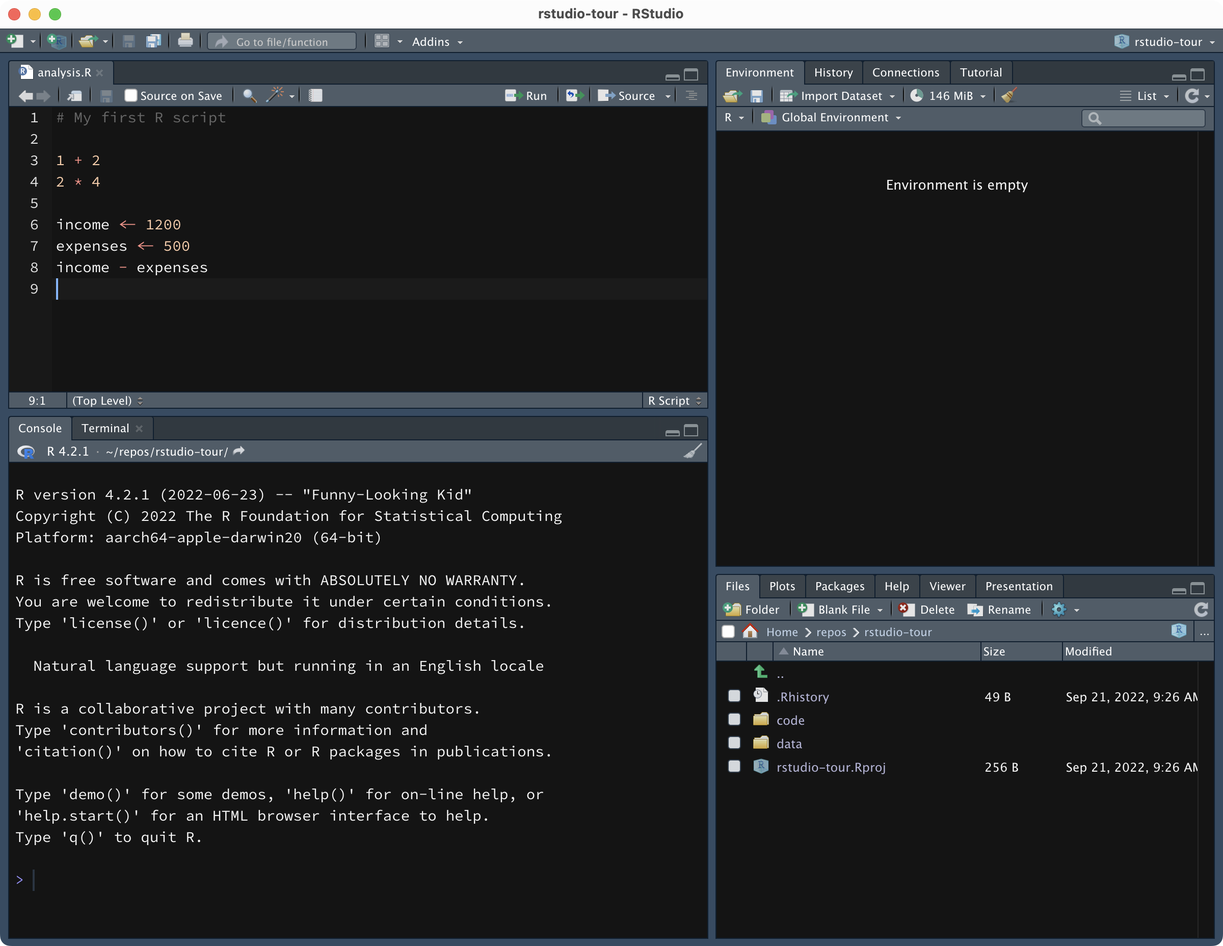
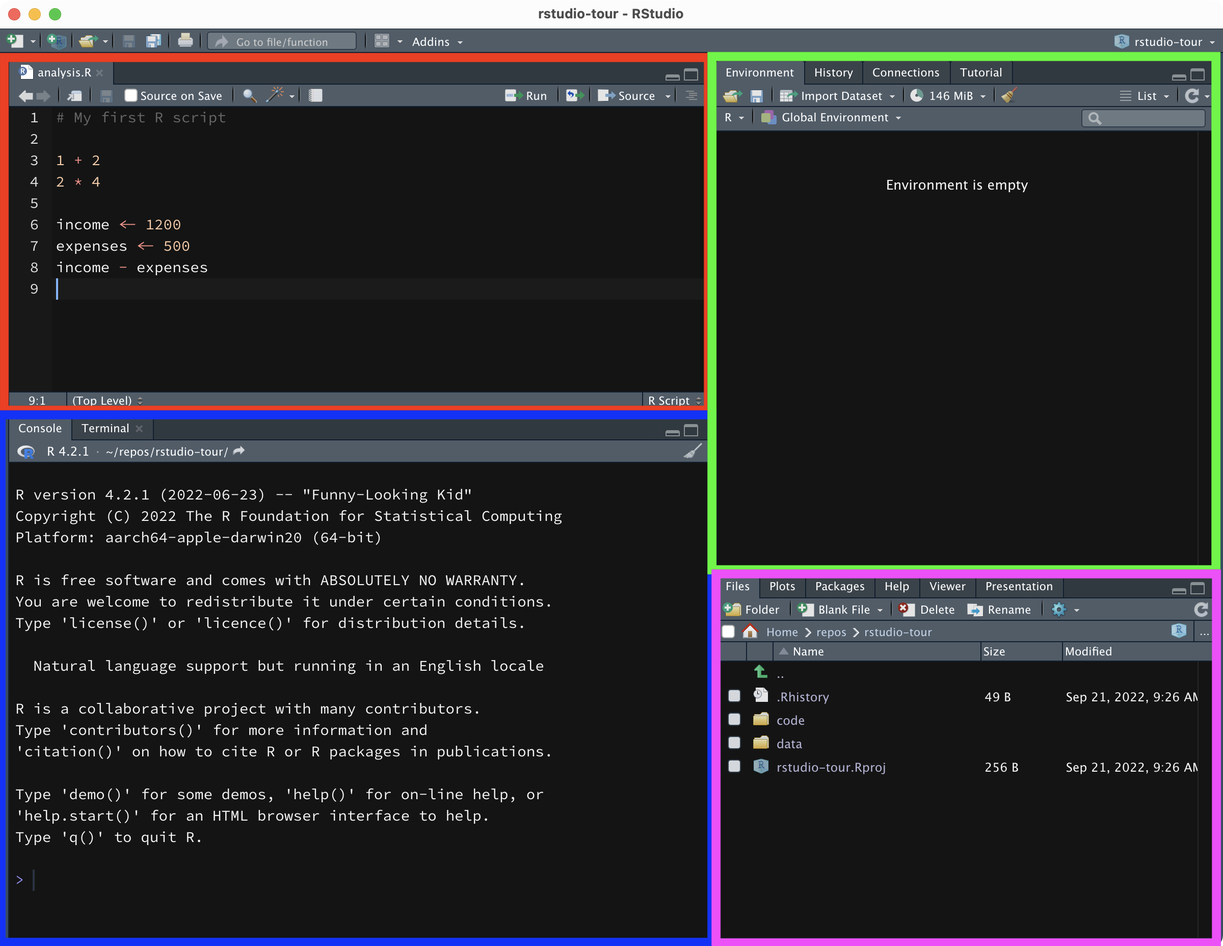
♻ - update w1 tutorial

Changed region(s): [[0.0, 0.0312, 1.0, 1.0]]

diff --git a/docs/tutorials/tutorial-w01.html b/docs/tutorials/tutorial-w01.html
@@ -171,13 +171,17 @@ code span.wa { color: #60a0b0; font-weight: bold; font-style: italic; } /* Warni
   <ul>
   <li><a href="#why-r" id="toc-why-r" class="nav-link active" data-scroll-target="#why-r">Why R?</a></li>
   <li><a href="#r-vs-rstudio" id="toc-r-vs-rstudio" class="nav-link" data-scroll-target="#r-vs-rstudio">R vs RStudio</a></li>
-  <li><a href="#rstudio-1" id="toc-rstudio-1" class="nav-link" data-scroll-target="#rstudio-1">RStudio</a></li>
+  <li><a href="#rstudio-1" id="toc-rstudio-1" class="nav-link" data-scroll-target="#rstudio-1">RStudio</a>
+  <ul class="collapse">
+  <li><a href="#rstudio-projects" id="toc-rstudio-projects" class="nav-link" data-scroll-target="#rstudio-projects">RStudio projects</a></li>
+  <li><a href="#a-few-important-settings" id="toc-a-few-important-settings" class="nav-link" data-scroll-target="#a-few-important-settings">A few important settings</a></li>
+  </ul></li>
   <li><a href="#r-basics" id="toc-r-basics" class="nav-link" data-scroll-target="#r-basics">R basics</a>
   <ul class="collapse">
   <li><a href="#r-as-a-calculator" id="toc-r-as-a-calculator" class="nav-link" data-scroll-target="#r-as-a-calculator">R as a calculator</a></li>
   <li><a href="#variables" id="toc-variables" class="nav-link" data-scroll-target="#variables">Variables</a></li>
   <li><a href="#functions" id="toc-functions" class="nav-link" data-scroll-target="#functions">Functions</a></li>
-  <li><a href="#strings-and-logicals" id="toc-strings-and-logicals" class="nav-link" data-scroll-target="#strings-and-logicals">Strings and logicals</a></li>
+  <li><a href="#string-and-logical-vectors" id="toc-string-and-logical-vectors" class="nav-link" data-scroll-target="#string-and-logical-vectors">String and logical vectors</a></li>
   </ul></li>
   </ul>
 </nav>
@@ -256,58 +260,98 @@ RStudio
 </section>
 <section id="rstudio-1" class="level2">
 <h2 class="anchored" data-anchor-id="rstudio-1">RStudio</h2>
+<p>When you open RStudio, you can see the window is divided into 4 panels:</p>
+<ul>
+<li><p>Red (top-left): the file <strong>Editor</strong>.</p></li>
+<li><p>Blue (bottom-left): the <strong>Console</strong>.</p></li>
+<li><p>Green (top-right): the <strong>Environment tab</strong>.</p></li>
+<li><p>Purple (bottom-right): the <strong>Files tab</strong>.</p></li>
+</ul>
 <p><img src="../img/rstudio-1.png" class="img-fluid"></p>
-<p><img src="../img/rstudio-2.png" class="img-fluid"></p>
+<p>The file <strong>Editor</strong> is where you can edit files, like you would in any text editor.</p>
+<p>The <strong>Console</strong> is where R commands can be executed. Think of this as the interface to R.</p>
+<p>The <strong>Environment tab</strong> lists the objects created with R, while in the <strong>Files tab</strong> you can navigate folders on your computer to get to files and open them in the file Editor.</p>
+<section id="rstudio-projects" class="level3">
+<h3 class="anchored" data-anchor-id="rstudio-projects">RStudio projects</h3>
+<p>RStudio is an IDE (see above) which allows you to work efficiently with R, all in one place.</p>
+<p><strong>Note</strong> that files and data live in folders on your computer, outside of RStudio: do not think of RStudio as an app where you can save files in.</p>
+<p>All the files that you see in the Files tab are files on your computer and you can access them from the Finder or File Explorer as you would with any other file.</p>
+<p>In principle, you can open RStudio and then navigate to any folder or file on your computer.</p>
+<p>However, there is a more efficient way of working with RStudio: <strong>RStudio Projects</strong>.</p>
+<div class="callout-tip callout callout-style-default no-icon callout-captioned">
+<div class="callout-header d-flex align-content-center">
+<div class="callout-icon-container">
+<i class="callout-icon no-icon"></i>
+</div>
+<div class="callout-caption-container flex-fill">
+RStudio Projects
+</div>
+</div>
+<div class="callout-body-container callout-body">
+<p>An <strong>RStudio Project</strong> is a folder on your computer that has an <code>.Rproj</code> file.</p>
+</div>
+</div>
+<p>You can create as many RStudio Projects as you wish, and I recommend to create one per project (your dissertation, a research project, etc…).</p>
+<p>We will create an RStudio Project for this course. You will be using this Project throughout the semester.</p>
+<p>To create an RStudio Project, click on the button that looks like a transparent light blue box with a plus, in the top-left corner of RStudio. A window like the one below will pop up.</p>
 <p><img src="../img/rstudio-3.png" class="img-fluid"></p>
+<p>Click on <code>New Directory</code> then <code>New Project</code>.</p>
 <p><img src="../img/rstudio-4.png" class="img-fluid"></p>
+<p>Now, this will create a new folder (aka directory) on your computer and will make that an RStudio Project.</p>
+<p>Give a name to your new project, something like the name of the course and year.</p>
+<p>Then you need to specify where to create this new folder/Project. Click on <code>Browse…</code> and navigate to the folder you want to create the new folder/Project in.</p>
+<p>When done, click on <code>Create Project</code>. RStudio will automatically open your new project.</p>
 <p><img src="../img/rstudio-5.png" class="img-fluid"></p>
+<p>You know you are in an RStudio Project because you can see the name of the Project in the top-right corner of RStudio.</p>
+<div class="callout-note callout callout-style-default no-icon callout-captioned">
+<div class="callout-header d-flex align-content-center">
+<div class="callout-icon-container">
+<i class="callout-icon no-icon"></i>
+</div>
+<div class="callout-caption-container flex-fill">
+Note
+</div>
+</div>
+<div class="callout-body-container callout-body">
+<p>When working through these tutorials, always make sure you are in the course RStudio Project you just created.</p>
+</div>
+</div>
+<p>If your see <code>Project (none)</code> in the top-right corner, that means your <strong>are not</strong> in an RStudio Project.</p>
+<p>There are several ways of opening an RStudio Project:</p>
+<ul>
+<li><p>You can go to the RStudio Project folder in Finder or File Explorer and double click on the <code>Rproj</code> file.</p></li>
+<li><p>You can click on <code>File &gt; Open Project</code> in the RStudio menu.</p></li>
+<li><p>You can click on the project name in the top-right corner of RStudio, which will bring up a list of projects. Click on the desired project to open it.</p></li>
+</ul>
+</section>
+<section id="a-few-important-settings" class="level3">
+<h3 class="anchored" data-anchor-id="a-few-important-settings">A few important settings</h3>
+<p>Before moving on, there are a few important settings that you need to change.</p>
 <p><img src="../img/rstudio-6.png" class="img-fluid"></p>
 <ol type="1">
-<li><p>Open the RStudio preferences (macOS: <code>RStudio &gt; Preferences...</code>, win: <code>Tools &gt; Global options...</code>).</p></li>
+<li><p>Open the RStudio preferences (macOS: <code>RStudio &gt; Preferences...</code>, Windows: <code>Tools &gt; Global options...</code>).</p></li>
 <li><p>Un-tick <code>Restore .RData into workspace at startup</code>.</p></li>
 <li><p>Select <code>Never</code> in <code>Save workspace to .RData on exit</code>.</p></li>
 </ol>
+</section>
 </section>
 <section id="r-basics" class="level2">
 <h2 class="anchored" data-anchor-id="r-basics">R basics</h2>
 <section id="r-as-a-calculator" class="level3">
 <h3 class="anchored" data-anchor-id="r-as-a-calculator">R as a calculator</h3>
 <p>Write the following in the <code>Console</code>, then press <code>ENTER</code>: <code>1 + 2</code>.</p>
-<p>Fantastic! You should see that the answer to the addition has been printed in the <code>Console</code>.</p>
-<p>Now, try running the same code again, but this time in the <strong>code chunk</strong> below. There are several ways you can run code in a code chunk: one is to click on the green triangle sign in the top right corner of the code chunk.</p>
-<p>Alternatively, you can also simply place the text cursor inside the code chunk in the line you want to run and hit <code>CTRL/CMD + ENTER</code> on your keyboard to run that line of code.</p>
-<div class="cell">
-<div class="sourceCode cell-code" id="cb1"><pre class="sourceCode r code-with-copy"><code class="sourceCode r"><span id="cb1-1"><a href="#cb1-1" aria-hidden="true" tabindex="-1"></a><span class="dv">1</span> <span class="sc">+</span> <span class="dv">2</span></span></code><button title="Copy to Clipboard" class="code-copy-button"><i class="bi"></i></button></pre></div>
-<div class="cell-output cell-output-stdout">
+<p>Fantastic! You should see that the answer to the addition has been printed in the <code>Console</code>, like this:</p>
 <pre><code>[1] 3</code></pre>
-</div>
-</div>
-<p>You did it!</p>
-<p>Now, try some more operations. Feel free to add your own to the mix!</p>
+<p>Now, try some more operations (write each of the following in the Console and press <code>ENTER</code>). Feel free to add your own to the mix!</p>
 <div class="cell">
-<div class="sourceCode cell-code" id="cb3"><pre class="sourceCode r code-with-copy"><code class="sourceCode r"><span id="cb3-1"><a href="#cb3-1" aria-hidden="true" tabindex="-1"></a><span class="dv">67</span> <span class="sc">-</span> <span class="dv">13</span></span></code><button title="Copy to Clipboard" class="code-copy-button"><i class="bi"></i></button></pre></div>
-<div class="cell-output cell-output-stdout">
-<pre><code>[1] 54</code></pre>
-</div>
-<div class="sourceCode cell-code" id="cb5"><pre class="sourceCode r code-with-copy"><code class="sourceCode r"><span id="cb5-1"><a href="#cb5-1" aria-hidden="true" tabindex="-1"></a><span class="dv">2</span> <span class="sc">*</span> <span class="dv">4</span></span></code><button title="Copy to Clipboard" class="code-copy-button"><i class="bi"></i></button></pre></div>
-<div class="cell-output cell-output-stdout">
-<pre><code>[1] 8</code></pre>
-</div>
-<div class="sourceCode cell-code" id="cb7"><pre class="sourceCode r code-with-copy"><code class="sourceCode r"><span id="cb7-1"><a href="#cb7-1" aria-hidden="true" tabindex="-1"></a><span class="dv">268</span> <span class="sc">/</span> <span class="dv">43</span></span></code><button title="Copy to Clipboard" class="code-copy-button"><i class="bi"></i></button></pre></div>
-<div class="cell-output cell-output-stdout">
-<pre><code>[1] 6.232558</code></pre>
-</div>
+<div class="sourceCode cell-code" id="cb2"><pre class="sourceCode r code-with-copy"><code class="sourceCode r"><span id="cb2-1"><a href="#cb2-1" aria-hidden="true" tabindex="-1"></a><span class="dv">67</span> <span class="sc">-</span> <span class="dv">13</span></span>
+<span id="cb2-2"><a href="#cb2-2" aria-hidden="true" tabindex="-1"></a><span class="dv">2</span> <span class="sc">*</span> <span class="dv">4</span></span>
+<span id="cb2-3"><a href="#cb2-3" aria-hidden="true" tabindex="-1"></a><span class="dv">268</span> <span class="sc">/</span> <span class="dv">43</span></span></code><button title="Copy to Clipboard" class="code-copy-button"><i class="bi"></i></button></pre></div>
 </div>
 <p>You can also chain multiple operations.</p>
 <div class="cell">
-<div class="sourceCode cell-code" id="cb9"><pre class="sourceCode r code-with-copy"><code class="sourceCode r"><span id="cb9-1"><a href="#cb9-1" aria-hidden="true" tabindex="-1"></a><span class="dv">6</span> <span class="sc">+</span> <span class="dv">4</span> <span class="sc">-</span> <span class="dv">1</span> <span class="sc">+</span> <span class="dv">2</span></span></code><button title="Copy to Clipboard" class="code-copy-button"><i class="bi"></i></button></pre></div>
-<div class="cell-output cell-output-stdout">
-<pre><code>[1] 11</code></pre>
-</div>
-<div class="sourceCode cell-code" id="cb11"><pre class="sourceCode r code-with-copy"><code class="sourceCode r"><span id="cb11-1"><a href="#cb11-1" aria-hidden="true" tabindex="-1"></a><span class="dv">4</span> <span class="sc">*</span> <span class="dv">2</span> <span class="sc">+</span> <span class="dv">3</span> <span class="sc">*</span> <span class="dv">2</span></span></code><button title="Copy to Clipboard" class="code-copy-button"><i class="bi"></i></button></pre></div>
-<div class="cell-output cell-output-stdout">
-<pre><code>[1] 14</code></pre>
-</div>
+<div class="sourceCode cell-code" id="cb3"><pre class="sourceCode r code-with-copy"><code class="sourceCode r"><span id="cb3-1"><a href="#cb3-1" aria-hidden="true" tabindex="-1"></a><span class="dv">6</span> <span class="sc">+</span> <span class="dv">4</span> <span class="sc">-</span> <span class="dv">1</span> <span class="sc">+</span> <span class="dv">2</span></span>
+<span id="cb3-2"><a href="#cb3-2" aria-hidden="true" tabindex="-1"></a><span class="dv">4</span> <span class="sc">*</span> <span class="dv">2</span> <span class="sc">+</span> <span class="dv">3</span> <span class="sc">*</span> <span class="dv">2</span></span></code><button title="Copy to Clipboard" class="code-copy-button"><i class="bi"></i></button></pre></div>
 </div>
 </section>
 <section id="variables" class="level3">
@@ -316,28 +360,38 @@ RStudio
 <p>Forget-me-not.</p>
 </blockquote>
 <p>Most times, we want to store a certain value so that we can use it again later.</p>
-<p>We can achieve this by creating <strong>variables</strong>. A variable holds one or more values and it’s stored in the computer memory for later use.</p>
-<p>You can create a variable by using the assignment operator <code>&lt;-</code>.</p>
-<div class="cell">
-<div class="sourceCode cell-code" id="cb13"><pre class="sourceCode r code-with-copy"><code class="sourceCode r"><span id="cb13-1"><a href="#cb13-1" aria-hidden="true" tabindex="-1"></a><span class="co"># Assign the value 156 to the variable my_num</span></span>
-<span id="cb13-2"><a href="#cb13-2" aria-hidden="true" tabindex="-1"></a>my_num <span class="ot">&lt;-</span> <span class="dv">156</span></span>
-<span id="cb13-3"><a href="#cb13-3" aria-hidden="true" tabindex="-1"></a></span>
-<span id="cb13-4"><a href="#cb13-4" aria-hidden="true" tabindex="-1"></a><span class="co"># Oh, btw... These are comments, i.e. lines of code starting with a #.</span></span>
-<span id="cb13-5"><a href="#cb13-5" aria-hidden="true" tabindex="-1"></a><span class="co"># Comments are skipped by R.</span></span></code><button title="Copy to Clipboard" class="code-copy-button"><i class="bi"></i></button></pre></div>
+<p>We can achieve this by creating <strong>variables</strong>.</p>
+<div class="callout-tip callout callout-style-default no-icon callout-captioned">
+<div class="callout-header d-flex align-content-center">
+<div class="callout-icon-container">
+<i class="callout-icon no-icon"></i>
 </div>
-<p>Check the list of variables in the <code>Environment</code> tab of the top-right panel of RStudio. You should see the <code>my_num</code> variable and its value there.</p>
-<p>Now, you can just call it back when you need it!</p>
+<div class="callout-caption-container flex-fill">
+Variables
+</div>
+</div>
+<div class="callout-body-container callout-body">
+<p>A <strong>variable</strong> holds one or more values and it’s stored in the computer memory for later use.</p>
+</div>
+</div>
+<p>You can create a variable by using the <strong>assignment operator</strong> <code>&lt;-</code>.</p>
+<p>Let’s assign the value <code>156</code> to the variable <code>my_num</code>.</p>
 <div class="cell">
-<div class="sourceCode cell-code" id="cb14"><pre class="sourceCode r code-with-copy"><code class="sourceCode r"><span id="cb14-1"><a href="#cb14-1" aria-hidden="true" tabindex="-1"></a>my_num</span></code><button title="Copy to Clipboard" class="code-copy-button"><i class="bi"></i></button></pre></div>
+<div class="sourceCode cell-code" id="cb4"><pre class="sourceCode r code-with-copy"><code class="sourceCode r"><span id="cb4-1"><a href="#cb4-1" aria-hidden="true" tabindex="-1"></a>my_num <span class="ot">&lt;-</span> <span class="dv">156</span></span></code><button title="Copy to Clipboard" class="code-copy-button"><i class="bi"></i></button></pre></div>
+</div>
+<p>Now, check the list of variables in the <code>Environment</code> tab of the top-right panel of RStudio. You should see the <code>my_num</code> variable and its value there.</p>
+<p>Now, you can just call the variable back when you need it! Write the following in the Console and press <code>ENTER</code>.</p>
+<div class="cell">
+<div class="sourceCode cell-code" id="cb5"><pre class="sourceCode r code-with-copy"><code class="sourceCode r"><span id="cb5-1"><a href="#cb5-1" aria-hidden="true" tabindex="-1"></a>my_num</span></code><button title="Copy to Clipboard" class="code-copy-button"><i class="bi"></i></button></pre></div>
 <div class="cell-output cell-output-stdout">
 <pre><code>[1] 156</code></pre>
 </div>
 </div>
-<p>Let’s try some operations.</p>
+<p>Let’s now try some operations using variables.</p>
 <div class="cell">
-<div class="sourceCode cell-code" id="cb16"><pre class="sourceCode r code-with-copy"><code class="sourceCode r"><span id="cb16-1"><a href="#cb16-1" aria-hidden="true" tabindex="-1"></a>income <span class="ot">&lt;-</span> <span class="dv">1200</span></span>
-<span id="cb16-2"><a href="#cb16-2" aria-hidden="true" tabindex="-1"></a>expenses <span class="ot">&lt;-</span> <span class="dv">500</span></span>
-<span id="cb16-3"><a href="#cb16-3" aria-hidden="true" tabindex="-1"></a>income <span class="sc">-</span> expenses</span></code><button title="Copy to Clipboard" class="code-copy-button"><i class="bi"></i></button></pre></div>
+<div class="sourceCode cell-code" id="cb7"><pre class="sourceCode r code-with-copy"><code class="sourceCode r"><span id="cb7-1"><a href="#cb7-1" aria-hidden="true" tabindex="-1"></a>income <span class="ot">&lt;-</span> <span class="dv">1200</span></span>
+<span id="cb7-2"><a href="#cb7-2" aria-hidden="true" tabindex="-1"></a>expenses <span class="ot">&lt;-</span> <span class="dv">500</span></span>
+<span id="cb7-3"><a href="#cb7-3" aria-hidden="true" tabindex="-1"></a>income <span class="sc">-</span> expenses</span></code><button title="Copy to Clipboard" class="code-copy-button"><i class="bi"></i></button></pre></div>
 <div class="cell-output cell-output-stdout">
 <pre><code>[1] 700</code></pre>
 </div>
@@ -345,35 +399,35 @@ RStudio
 <p>See? You can use operations with variables too!</p>
 <p>And you can also go all the way with variables.</p>
 <div class="cell">
-<div class="sourceCode cell-code" id="cb18"><pre class="sourceCode r code-with-copy"><code class="sourceCode r"><span id="cb18-1"><a href="#cb18-1" aria-hidden="true" tabindex="-1"></a>savings <span class="ot">&lt;-</span> income <span class="sc">-</span> expenses</span></code><button title="Copy to Clipboard" class="code-copy-button"><i class="bi"></i></button></pre></div>
+<div class="sourceCode cell-code" id="cb9"><pre class="sourceCode r code-with-copy"><code class="sourceCode r"><span id="cb9-1"><a href="#cb9-1" aria-hidden="true" tabindex="-1"></a>savings <span class="ot">&lt;-</span> income <span class="sc">-</span> expenses</span></code><button title="Copy to Clipboard" class="code-copy-button"><i class="bi"></i></button></pre></div>
 </div>
 <p>And check the value…</p>
 <div class="cell">
-<div class="sourceCode cell-code" id="cb19"><pre class="sourceCode r code-with-copy"><code class="sourceCode r"><span id="cb19-1"><a href="#cb19-1" aria-hidden="true" tabindex="-1"></a>savings</span></code><button title="Copy to Clipboard" class="code-copy-button"><i class="bi"></i></button></pre></div>
+<div class="sourceCode cell-code" id="cb10"><pre class="sourceCode r code-with-copy"><code class="sourceCode r"><span id="cb10-1"><a href="#cb10-1" aria-hidden="true" tabindex="-1"></a>savings</span></code><button title="Copy to Clipboard" class="code-copy-button"><i class="bi"></i></button></pre></div>
 <div class="cell-output cell-output-stdout">
 <pre><code>[1] 700</code></pre>
 </div>
 </div>
-<p>Variables can hold more than one item.</p>
+<p>Variables can hold more than one item or value.</p>
 <p>Just use the combine <code>c()</code> function to create a <strong>vector</strong> containing multiple values. A vector is a variable containing values of the same type.</p>
 <p>The following are all numeric vectors.</p>
 <div class="cell">
-<div class="sourceCode cell-code" id="cb21"><pre class="sourceCode r code-with-copy"><code class="sourceCode r"><span id="cb21-1"><a href="#cb21-1" aria-hidden="true" tabindex="-1"></a>one_i <span class="ot">&lt;-</span> <span class="dv">6</span></span>
-<span id="cb21-2"><a href="#cb21-2" aria-hidden="true" tabindex="-1"></a><span class="co"># Vector with 2 values</span></span>
-<span id="cb21-3"><a href="#cb21-3" aria-hidden="true" tabindex="-1"></a>two_i <span class="ot">&lt;-</span> <span class="fu">c</span>(<span class="dv">6</span>, <span class="dv">8</span>)</span>
-<span id="cb21-4"><a href="#cb21-4" aria-hidden="true" tabindex="-1"></a><span class="co"># Vector with 3 values</span></span>
-<span id="cb21-5"><a href="#cb21-5" aria-hidden="true" tabindex="-1"></a>three_i <span class="ot">&lt;-</span> <span class="fu">c</span>(<span class="dv">6</span>, <span class="dv">8</span>, <span class="dv">42</span>)</span></code><button title="Copy to Clipboard" class="code-copy-button"><i class="bi"></i></button></pre></div>
+<div class="sourceCode cell-code" id="cb12"><pre class="sourceCode r code-with-copy"><code class="sourceCode r"><span id="cb12-1"><a href="#cb12-1" aria-hidden="true" tabindex="-1"></a>one_i <span class="ot">&lt;-</span> <span class="dv">6</span></span>
+<span id="cb12-2"><a href="#cb12-2" aria-hidden="true" tabindex="-1"></a><span class="co"># Vector with 2 values</span></span>
+<span id="cb12-3"><a href="#cb12-3" aria-hidden="true" tabindex="-1"></a>two_i <span class="ot">&lt;-</span> <span class="fu">c</span>(<span class="dv">6</span>, <span class="dv">8</span>)</span>
+<span id="cb12-4"><a href="#cb12-4" aria-hidden="true" tabindex="-1"></a><span class="co"># Vector with 3 values</span></span>
+<span id="cb12-5"><a href="#cb12-5" aria-hidden="true" tabindex="-1"></a>three_i <span class="ot">&lt;-</span> <span class="fu">c</span>(<span class="dv">6</span>, <span class="dv">8</span>, <span class="dv">42</span>)</span></code><button title="Copy to Clipboard" class="code-copy-button"><i class="bi"></i></button></pre></div>
 </div>
 <p>Check the list of variables in the <code>Environment</code> tab. You will see now that before the values of <code>two_i</code> and <code>three_i</code> you get the vector type <code>num</code> for numeric.</p>
 <p>Note the following are the same:</p>
 <div class="cell">
-<div class="sourceCode cell-code" id="cb22"><pre class="sourceCode r code-with-copy"><code class="sourceCode r"><span id="cb22-1"><a href="#cb22-1" aria-hidden="true" tabindex="-1"></a>one_i <span class="ot">&lt;-</span> <span class="dv">6</span></span>
-<span id="cb22-2"><a href="#cb22-2" aria-hidden="true" tabindex="-1"></a>one_i</span></code><button title="Copy to Clipboard" class="code-copy-button"><i class="bi"></i></button></pre></div>
+<div class="sourceCode cell-code" id="cb13"><pre class="sourceCode r code-with-copy"><code class="sourceCode r"><span id="cb13-1"><a href="#cb13-1" aria-hidden="true" tabindex="-1"></a>one_i <span class="ot">&lt;-</span> <span class="dv">6</span></span>
+<span id="cb13-2"><a href="#cb13-2" aria-hidden="true" tabindex="-1"></a>one_i</span></code><button title="Copy to Clipboard" class="code-copy-button"><i class="bi"></i></button></pre></div>
 <div class="cell-output cell-output-stdout">
 <pre><code>[1] 6</code></pre>
 </div>
-<div class="sourceCode cell-code" id="cb24"><pre class="sourceCode r code-with-copy"><code class="sourceCode r"><span id="cb24-1"><a href="#cb24-1" aria-hidden="true" tabindex="-1"></a>one_ii <span class="ot">&lt;-</span> <span class="fu">c</span>(<span class="dv">6</span>)</span>
-<span id="cb24-2"><a href="#cb24-2" aria-hidden="true" tabindex="-1"></a>one_ii</span></code><button title="Copy to Clipboard" class="code-copy-button"><i class="bi"></i></button></pre></div>
+<div class="sourceCode cell-code" id="cb15"><pre class="sourceCode r code-with-copy"><code class="sourceCode r"><span id="cb15-1"><a href="#cb15-1" aria-hidden="true" tabindex="-1"></a>one_ii <span class="ot">&lt;-</span> <span class="fu">c</span>(<span class="dv">6</span>)</span>
+<span id="cb15-2"><a href="#cb15-2" aria-hidden="true" tabindex="-1"></a>one_ii</span></code><button title="Copy to Clipboard" class="code-copy-button"><i class="bi"></i></button></pre></div>
 <div class="cell-output cell-output-stdout">
 <pre><code>[1] 6</code></pre>
 </div>
@@ -391,7 +445,7 @@ RStudio
 <li><code>()</code> are round parentheses, inside of which you write arguments, separated by commas.</li>
 </ul>
 <div class="cell">
-<div class="sourceCode cell-code" id="cb26"><pre class="sourceCode r code-with-copy"><code class="sourceCode r"><span id="cb26-1"><a href="#cb26-1" aria-hidden="true" tabindex="-1"></a><span class="fu">sum</span>(<span class="dv">3</span>, <span class="dv">5</span>)</span></code><button title="Copy to Clipboard" class="code-copy-button"><i class="bi"></i></button></pre></div>
+<div class="sourceCode cell-code" id="cb17"><pre class="sourceCode r code-with-copy"><code class="sourceCode r"><span id="cb17-1"><a href="#cb17-1" aria-hidden="true" tabindex="-1"></a><span class="fu">sum</span>(<span class="dv">3</span>, <span class="dv">5</span>)</span></code><button title="Copy to Clipboard" class="code-copy-button"><i class="bi"></i></button></pre></div>
 <div class="cell-output cell-output-stdout">
 <pre><code>[1] 8</code></pre>
 </div>
@@ -399,55 +453,55 @@ RStudio
 <p>The <code>sum()</code> function sums the number listed as arguments. Above, the arguments are <code>3</code> and <code>5</code>.</p>
 <p>And of course arguments can be vectors!</p>
 <div class="cell">
-<div class="sourceCode cell-code" id="cb28"><pre class="sourceCode r code-with-copy"><code class="sourceCode r"><span id="cb28-1"><a href="#cb28-1" aria-hidden="true" tabindex="-1"></a>my_nums <span class="ot">&lt;-</span> <span class="fu">c</span>(<span class="dv">3</span>, <span class="dv">5</span>, <span class="dv">7</span>)</span>
-<span id="cb28-2"><a href="#cb28-2" aria-hidden="true" tabindex="-1"></a></span>
-<span id="cb28-3"><a href="#cb28-3" aria-hidden="true" tabindex="-1"></a><span class="fu">sum</span>(my_nums)</span></code><button title="Copy to Clipboard" class="code-copy-button"><i class="bi"></i></button></pre></div>
+<div class="sourceCode cell-code" id="cb19"><pre class="sourceCode r code-with-copy"><code class="sourceCode r"><span id="cb19-1"><a href="#cb19-1" aria-hidden="true" tabindex="-1"></a>my_nums <span class="ot">&lt;-</span> <span class="fu">c</span>(<span class="dv">3</span>, <span class="dv">5</span>, <span class="dv">7</span>)</span>
+<span id="cb19-2"><a href="#cb19-2" aria-hidden="true" tabindex="-1"></a></span>
+<span id="cb19-3"><a href="#cb19-3" aria-hidden="true" tabindex="-1"></a><span class="fu">sum</span>(my_nums)</span></code><button title="Copy to Clipboard" class="code-copy-button"><i class="bi"></i></button></pre></div>
 <div class="cell-output cell-output-stdout">
 <pre><code>[1] 15</code></pre>
 </div>
-<div class="sourceCode cell-code" id="cb30"><pre class="sourceCode r code-with-copy"><code class="sourceCode r"><span id="cb30-1"><a href="#cb30-1" aria-hidden="true" tabindex="-1"></a><span class="fu">mean</span>(my_nums)</span></code><button title="Copy to Clipboard" class="code-copy-button"><i class="bi"></i></button></pre></div>
+<div class="sourceCode cell-code" id="cb21"><pre class="sourceCode r code-with-copy"><code class="sourceCode r"><span id="cb21-1"><a href="#cb21-1" aria-hidden="true" tabindex="-1"></a><span class="fu">mean</span>(my_nums)</span></code><button title="Copy to Clipboard" class="code-copy-button"><i class="bi"></i></button></pre></div>
 <div class="cell-output cell-output-stdout">
 <pre><code>[1] 5</code></pre>
 </div>
 </div>
 </section>
-<section id="strings-and-logicals" class="level3">
-<h3 class="anchored" data-anchor-id="strings-and-logicals">Strings and logicals</h3>
+<section id="string-and-logical-vectors" class="level3">
+<h3 class="anchored" data-anchor-id="string-and-logical-vectors">String and logical vectors</h3>
 <blockquote class="blockquote">
 <p>Not just numbers.</p>
 </blockquote>
 <p>Variables work not only with numbers. They can also store <strong>strings</strong>. A string is basically a set of characters (a word, a sentence, a full text).</p>
-<p>In R, strings have to be <strong>quoted</strong> using double quotes <code>""</code>.</p>
+<p>In R, strings have to be <strong>quoted</strong> using double quotes <code>" "</code>.</p>
 <p>Change the following strings to your name and surname</p>
 <div class="cell">
-<div class="sourceCode cell-code" id="cb32"><pre class="sourceCode r code-with-copy"><code class="sourceCode r"><span id="cb32-1"><a href="#cb32-1" aria-hidden="true" tabindex="-1"></a>name <span class="ot">&lt;-</span> <span class="st">"Stefano"</span></span>
-<span id="cb32-2"><a href="#cb32-2" aria-hidden="true" tabindex="-1"></a>surname <span class="ot">&lt;-</span> <span class="st">"Coretta"</span></span>
-<span id="cb32-3"><a href="#cb32-3" aria-hidden="true" tabindex="-1"></a></span>
-<span id="cb32-4"><a href="#cb32-4" aria-hidden="true" tabindex="-1"></a>name</span></code><button title="Copy to Clipboard" class="code-copy-button"><i class="bi"></i></button></pre></div>
+<div class="sourceCode cell-code" id="cb23"><pre class="sourceCode r code-with-copy"><code class="sourceCode r"><span id="cb23-1"><a href="#cb23-1" aria-hidden="true" tabindex="-1"></a>name <span class="ot">&lt;-</span> <span class="st">"Stefano"</span></span>
+<span id="cb23-2"><a href="#cb23-2" aria-hidden="true" tabindex="-1"></a>surname <span class="ot">&lt;-</span> <span class="st">"Coretta"</span></span>
+<span id="cb23-3"><a href="#cb23-3" aria-hidden="true" tabindex="-1"></a></span>
+<span id="cb23-4"><a href="#cb23-4" aria-hidden="true" tabindex="-1"></a>name</span></code><button title="Copy to Clipboard" class="code-copy-button"><i class="bi"></i></button></pre></div>
 <div class="cell-output cell-output-stdout">
 <pre><code>[1] "Stefano"</code></pre>
 </div>
 </div>
 <p>Strings can be used as arguments in functions, like numbers can.</p>
 <div class="cell">
-<div class="sourceCode cell-code" id="cb34"><pre class="sourceCode r code-with-copy"><code class="sourceCode r"><span id="cb34-1"><a href="#cb34-1" aria-hidden="true" tabindex="-1"></a><span class="fu">cat</span>(<span class="st">"My name is"</span>, name, surname)</span></code><button title="Copy to Clipboard" class="code-copy-button"><i class="bi"></i></button></pre></div>
+<div class="sourceCode cell-code" id="cb25"><pre class="sourceCode r code-with-copy"><code class="sourceCode r"><span id="cb25-1"><a href="#cb25-1" aria-hidden="true" tabindex="-1"></a><span class="fu">cat</span>(<span class="st">"My name is"</span>, name, surname)</span></code><button title="Copy to Clipboard" class="code-copy-button"><i class="bi"></i></button></pre></div>
 <div class="cell-output cell-output-stdout">
 <pre><code>My name is Stefano Coretta</code></pre>
 </div>
 </div>
 <p>Remember that you can reuse the same variable name to override the variable value.</p>
 <div class="cell">
-<div class="sourceCode cell-code" id="cb36"><pre class="sourceCode r code-with-copy"><code class="sourceCode r"><span id="cb36-1"><a href="#cb36-1" aria-hidden="true" tabindex="-1"></a>name <span class="ot">&lt;-</span> <span class="st">"Raj"</span></span>
-<span id="cb36-2"><a href="#cb36-2" aria-hidden="true" tabindex="-1"></a></span>
-<span id="cb36-3"><a href="#cb36-3" aria-hidden="true" tabindex="-1"></a><span class="fu">cat</span>(<span class="st">"My name is"</span>, name, surname)</span></code><button title="Copy to Clipboard" class="code-copy-button"><i class="bi"></i></button></pre></div>
+<div class="sourceCode cell-code" id="cb27"><pre class="sourceCode r code-with-copy"><code class="sourceCode r"><span id="cb27-1"><a href="#cb27-1" aria-hidden="true" tabindex="-1"></a>name <span class="ot">&lt;-</span> <span class="st">"Raj"</span></span>
+<span id="cb27-2"><a href="#cb27-2" aria-hidden="true" tabindex="-1"></a></span>
+<span id="cb27-3"><a href="#cb27-3" aria-hidden="true" tabindex="-1"></a><span class="fu">cat</span>(<span class="st">"My name is"</span>, name, surname)</span></code><button title="Copy to Clipboard" class="code-copy-button"><i class="bi"></i></button></pre></div>
 <div class="cell-output cell-output-stdout">
 <pre><code>My name is Raj Coretta</code></pre>
 </div>
 </div>
 <p>You can combine multiple strings into a <strong>character vector</strong>, using <code>c()</code>.</p>
 <div class="cell">
-<div class="sourceCode cell-code" id="cb38"><pre class="sourceCode r code-with-copy"><code class="sourceCode r"><span id="cb38-1"><a href="#cb38-1" aria-hidden="true" tabindex="-1"></a>fruit <span class="ot">&lt;-</span> <span class="fu">c</span>(<span class="st">"apple"</span>, <span class="st">"oranges"</span>, <span class="st">"bananas"</span>)</span>
-<span id="cb38-2"><a href="#cb38-2" aria-hidden="true" tabindex="-1"></a>fruit</span></code><button title="Copy to Clipboard" class="code-copy-button"><i class="bi"></i></button></pre></div>
+<div class="sourceCode cell-code" id="cb29"><pre class="sourceCode r code-with-copy"><code class="sourceCode r"><span id="cb29-1"><a href="#cb29-1" aria-hidden="true" tabindex="-1"></a>fruit <span class="ot">&lt;-</span> <span class="fu">c</span>(<span class="st">"apple"</span>, <span class="st">"oranges"</span>, <span class="st">"bananas"</span>)</span>
+<span id="cb29-2"><a href="#cb29-2" aria-hidden="true" tabindex="-1"></a>fruit</span></code><button title="Copy to Clipboard" class="code-copy-button"><i class="bi"></i></button></pre></div>
 <div class="cell-output cell-output-stdout">
 <pre><code>[1] "apple"   "oranges" "bananas"</code></pre>
 </div>
